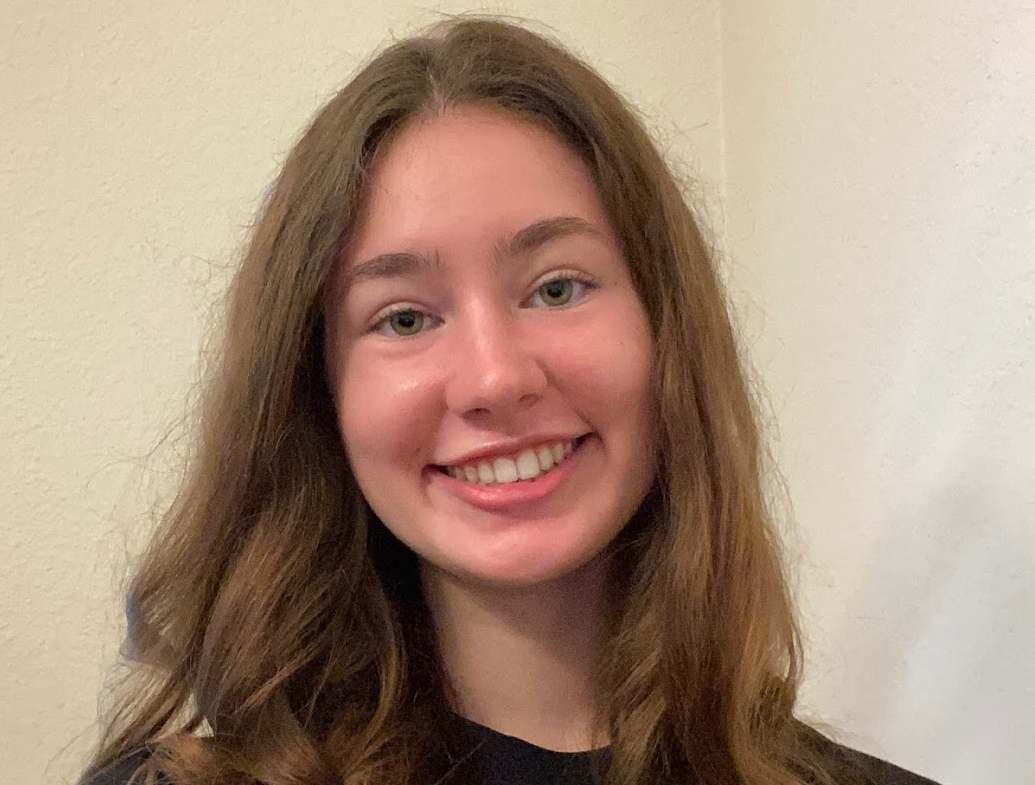
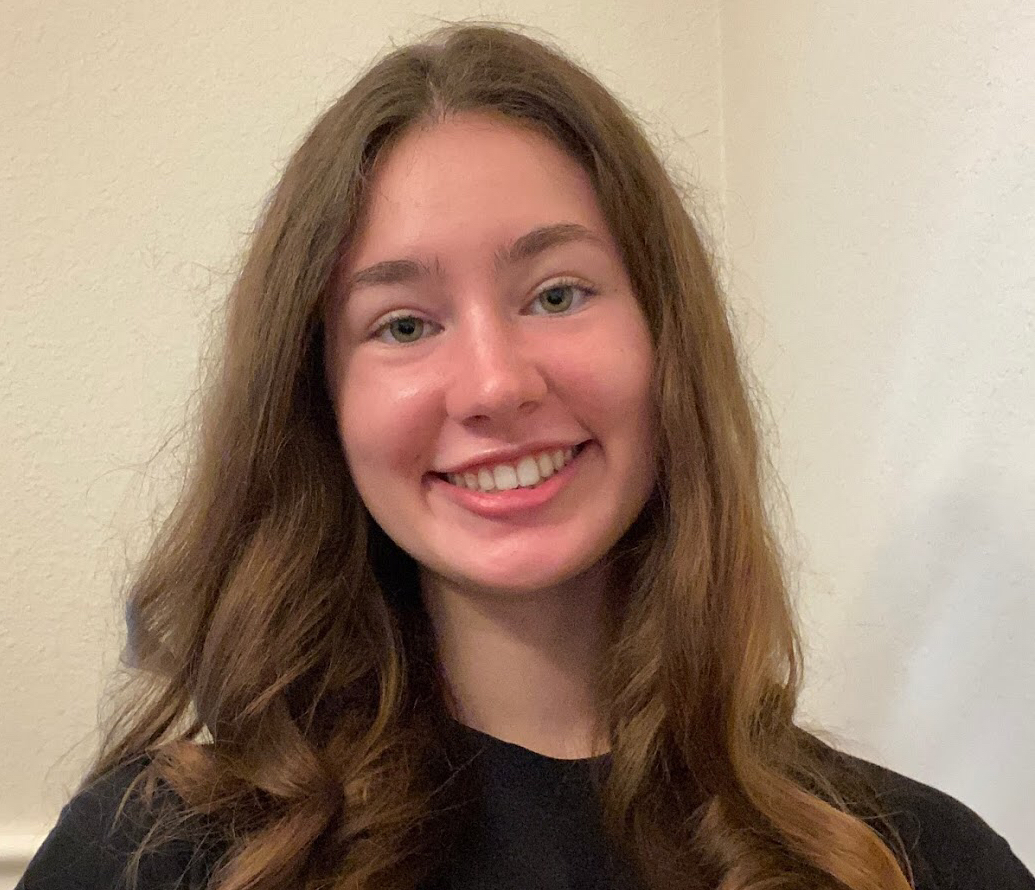
Pics update2.1

diff --git a/about-team.html b/about-team.html
@@ -214,7 +214,7 @@
 					<!-- Need pic-->
 					<div class="card">
 						<div class="card-image waves-effect waves-block waves-light">
-							<img class="activator" src="img\team\20-21\David.jpeg">
+							<img class="activator" src="img\team\20-21\Dhruv.JPG">
 						</div>
 						<div class="card-content">
 							<span class="card-title activator grey-text text-darken-4">Dhruv<i class="ai-plus right material-icons"></i></span>
